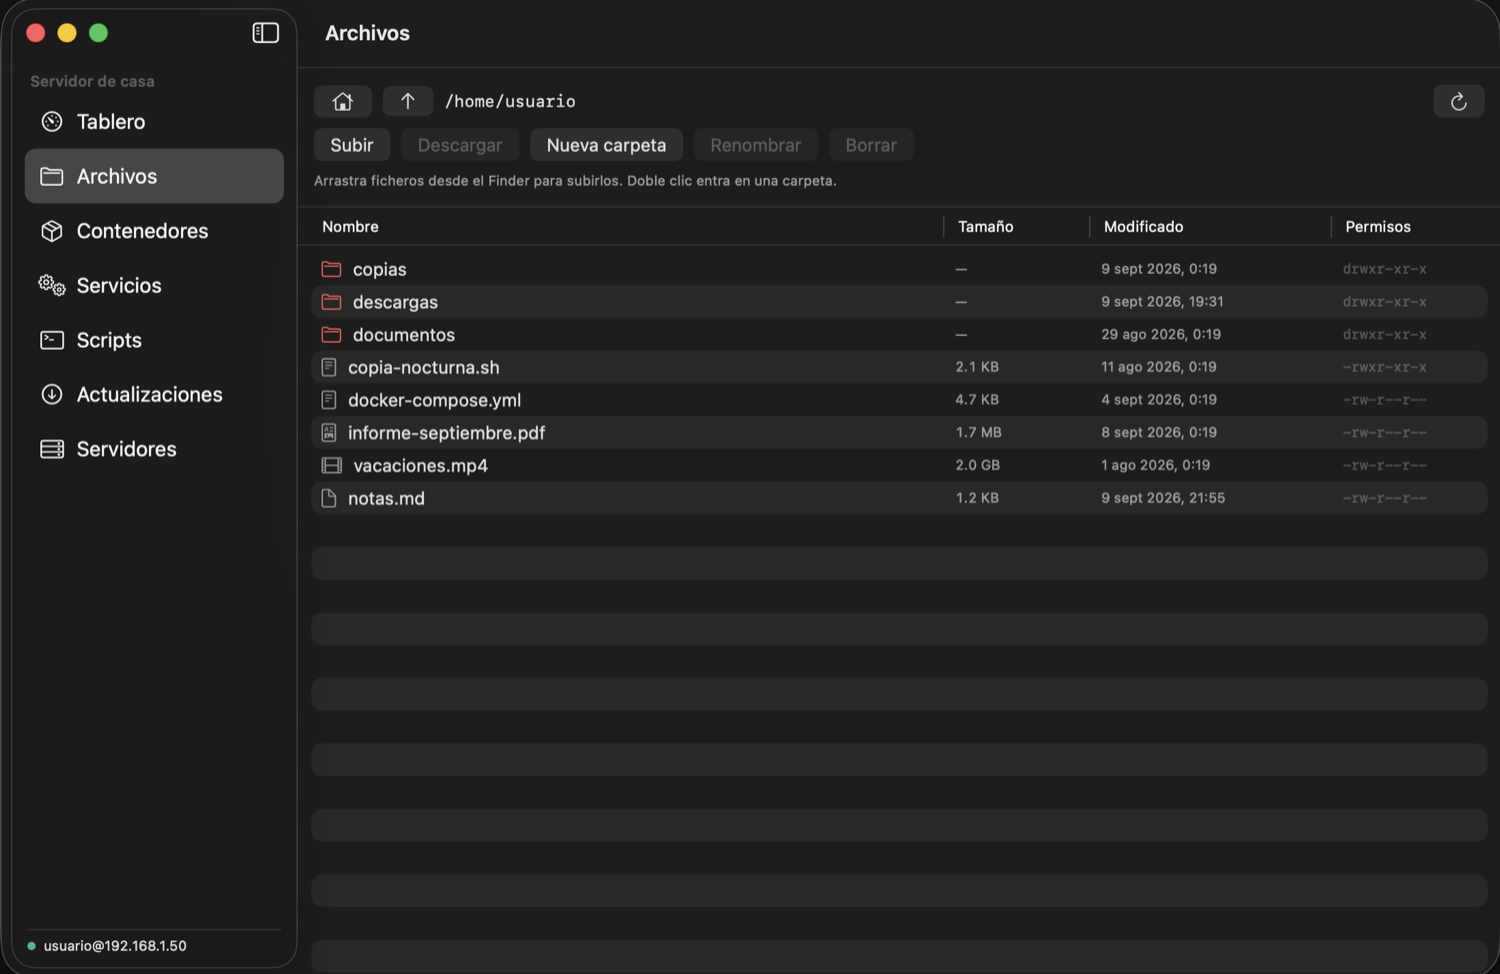
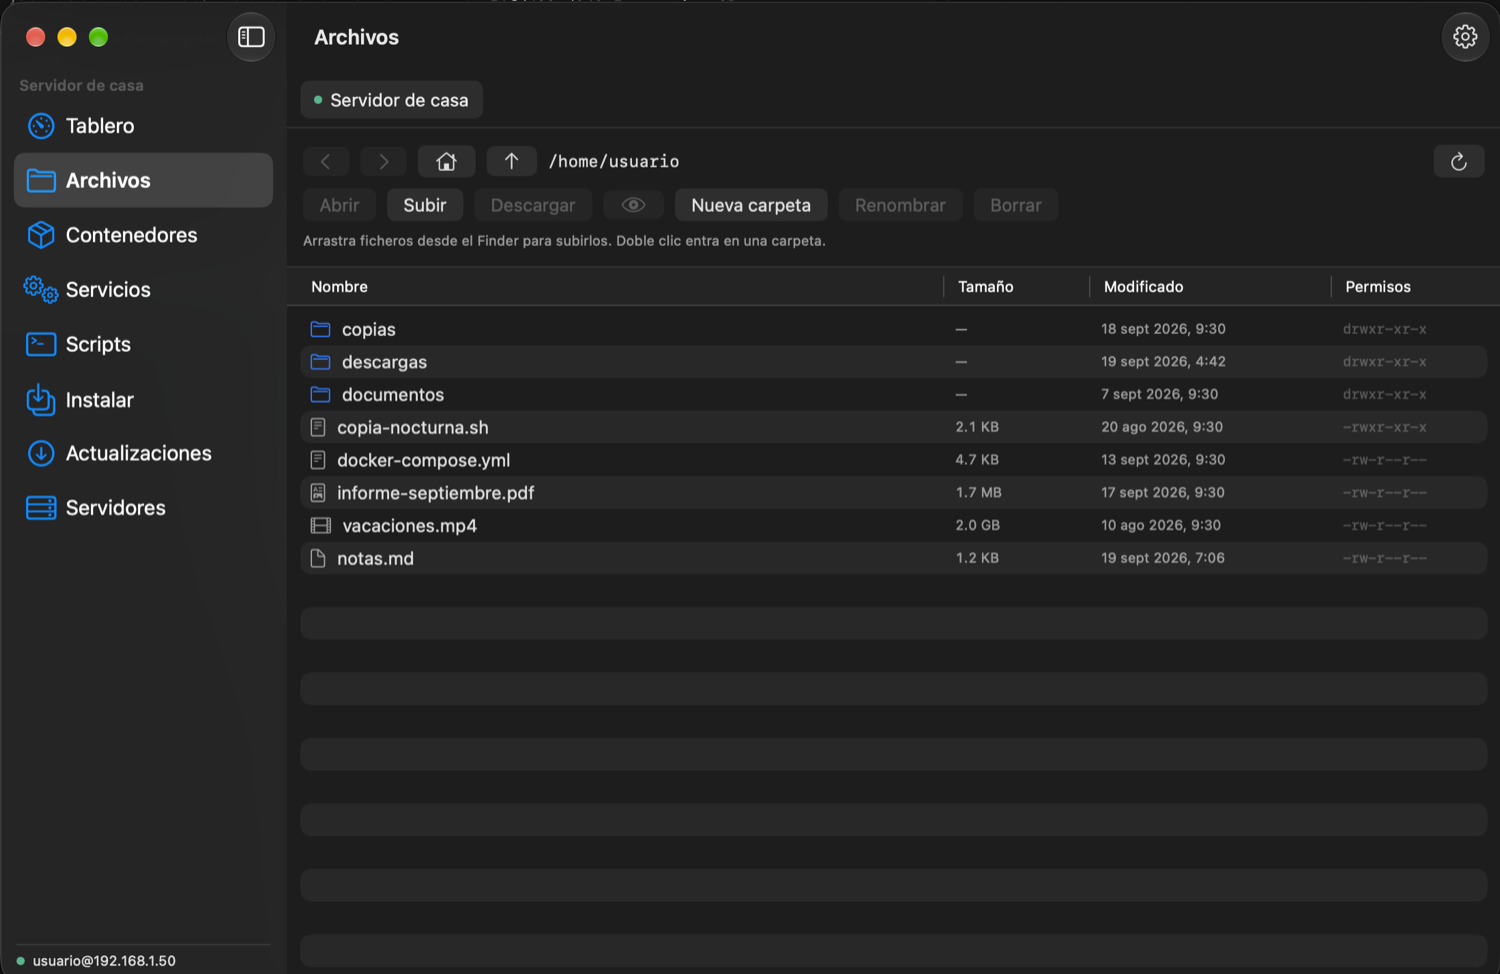
Screenshots of the app as it actually ships
The images in docs/ were taken before files, the installer and the server tabs
were part of the app, so the sidebar in them was missing half the sections. They
are retaken from the current build, still in demo mode with invented data, and
the READMEs now also show the file browser and the container list.

diff --git a/README.es.md b/README.es.md
@@ -40,7 +40,12 @@ Entra por SSH, igual que entras tú, y lee lo que hay.
   máquina como saltas de página en el navegador.
 
 <p align="center">
+  <img src="docs/files.png" width="380" alt="Ficheros por SFTP">
   <img src="docs/scripts.png" width="380" alt="Los scripts explicados con sus propios comentarios">
+</p>
+
+<p align="center">
+  <img src="docs/containers.png" width="380" alt="Contenedores de Docker">
   <img src="docs/updates.png" width="380" alt="Actualizaciones agrupadas por tipo">
 </p>
 

diff --git a/README.md b/README.md
@@ -39,7 +39,12 @@ SSH, the way you already do, and reads what is there.
   way you move between pages in a browser.
 
 <p align="center">
+  <img src="docs/files.png" width="380" alt="Files over SFTP">
   <img src="docs/scripts.png" width="380" alt="Scripts explained by their own comments">
+</p>
+
+<p align="center">
+  <img src="docs/containers.png" width="380" alt="Docker containers">
   <img src="docs/updates.png" width="380" alt="Updates grouped by kind">
 </p>
 
